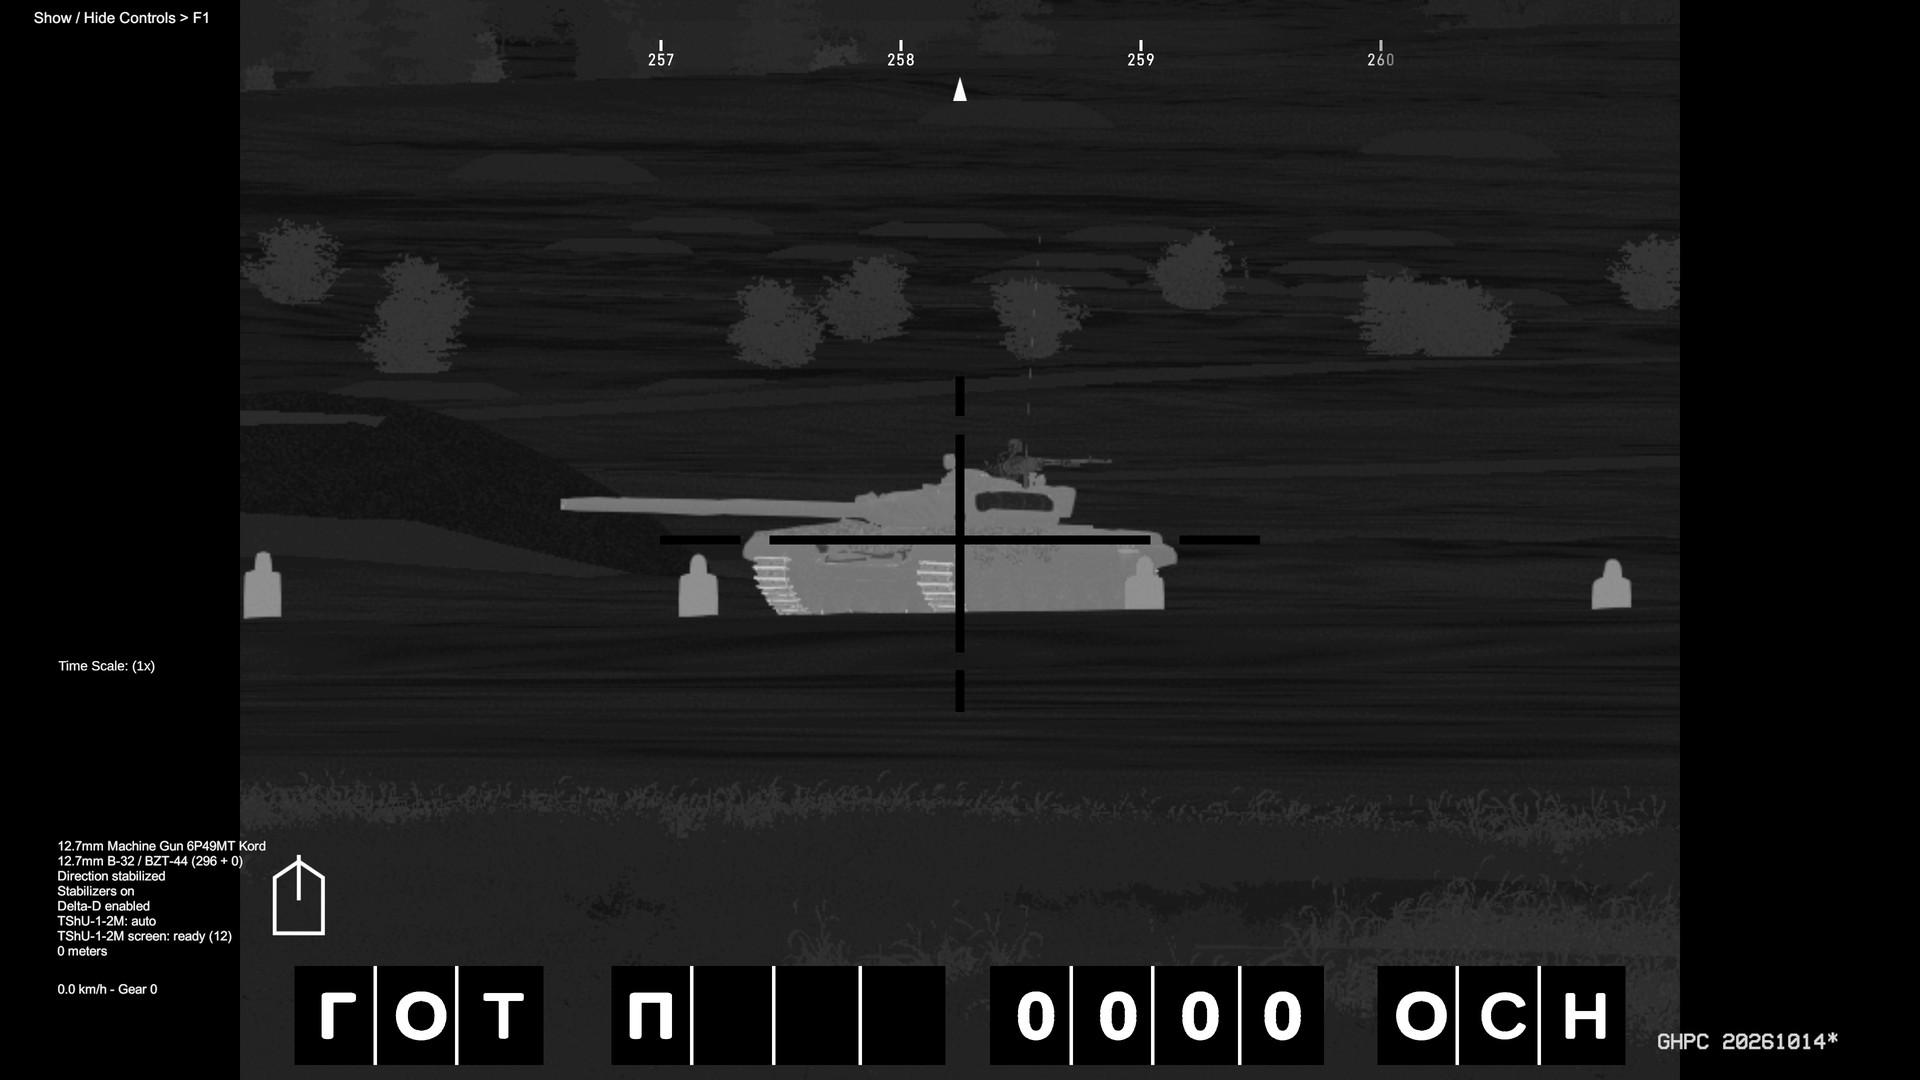
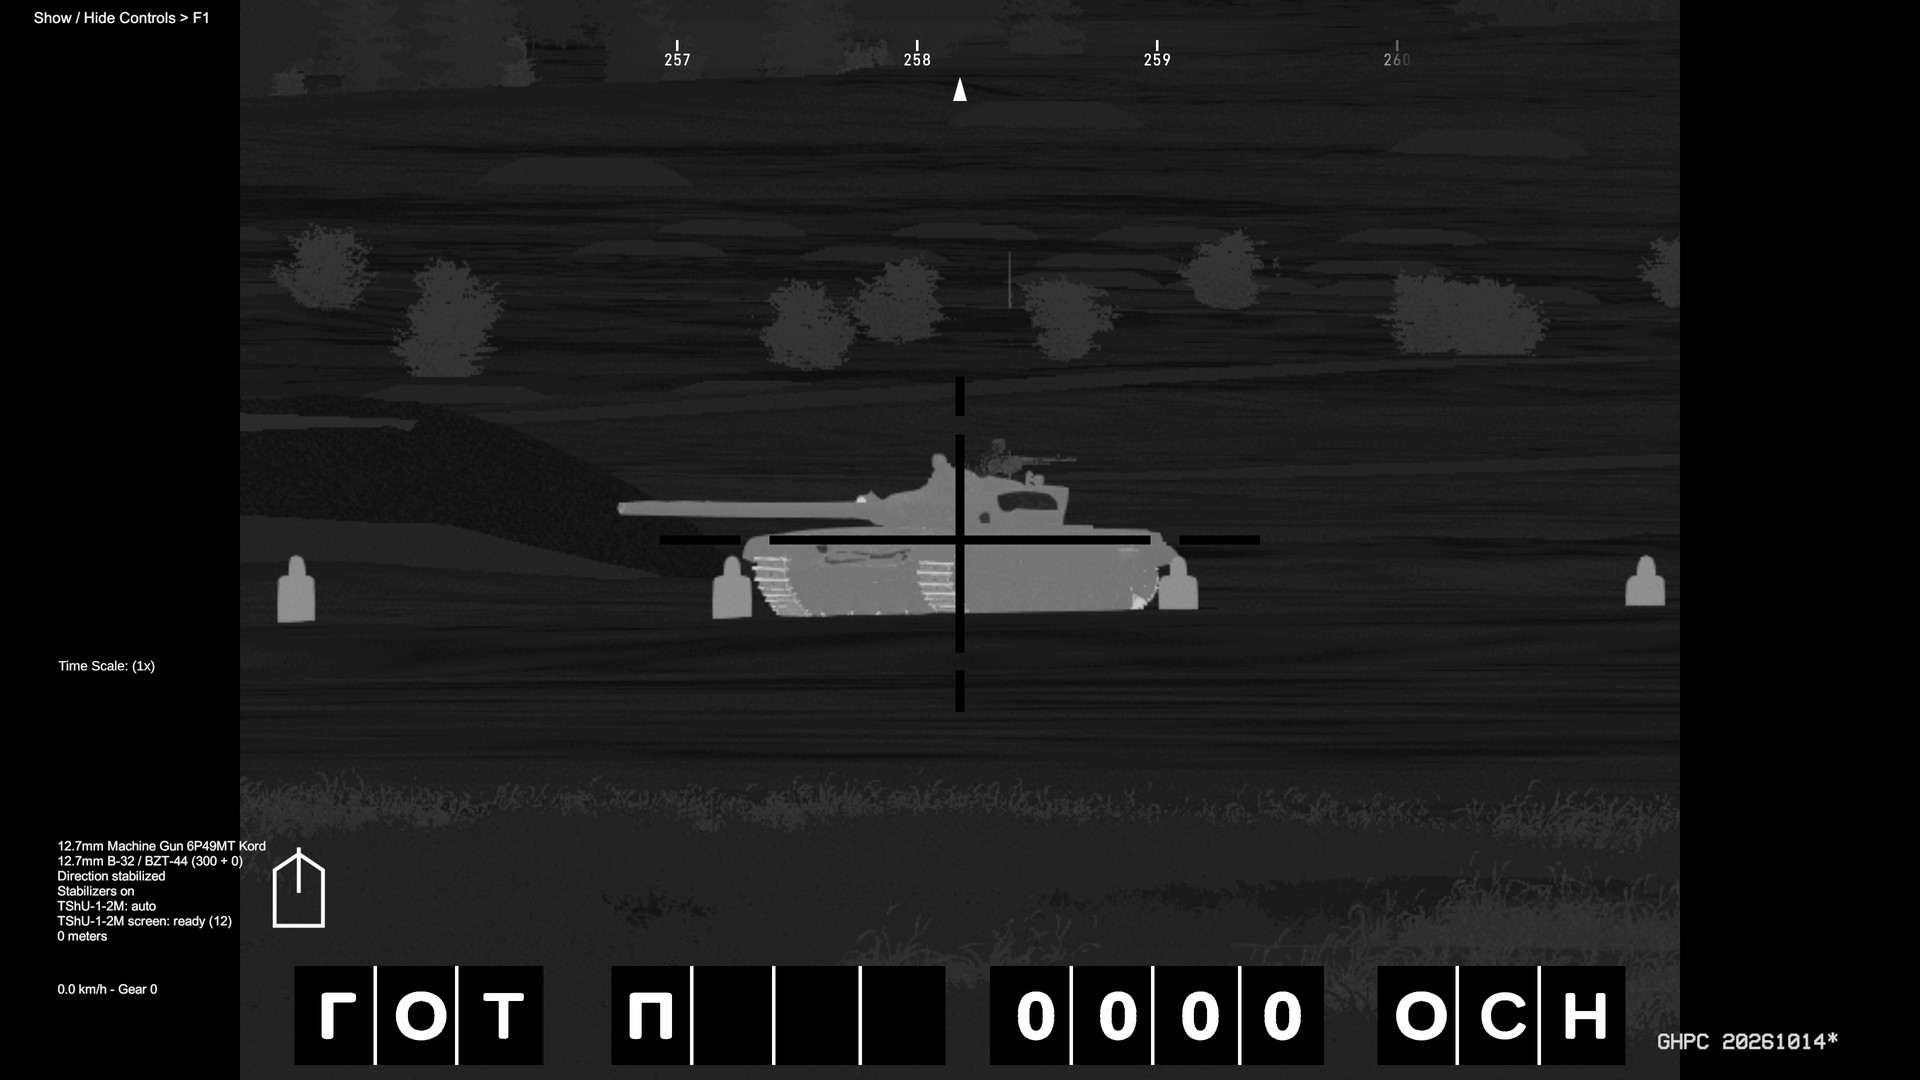
T-90M 0.1.0 release
Source as it ships in 0.1.0. Since the last push: ERA destruction effects on by default, the TShU page sits in the
monitor's black bar in the thermal sight, PDT and panorama, convoy numbers centred, lead held within the Sosna-U
head's travel, and the update check on. README and screenshots brought up to date to match.

diff --git a/T90M/Mod.cs b/T90M/Mod.cs
@@ -41,13 +41,14 @@ namespace T90M
 		internal static MelonPreferences_Entry<bool> KordCases;
 		internal static MelonPreferences_Entry<bool> EraEffects;
 
-		const string Repo = null;
+		const string Repo = "marsattackk/GHPC-T90M";
 		static readonly SettingsMigration[] Migrations = { };
 
 		static readonly string[] MenuScenes = { "MainMenu2_Scene", "MainMenu2-1_Scene", "LOADER_MENU", "LOADER_INITIAL", "t64_menu", "leo2_menu" };
 
 		public override void OnInitializeMelon()
 		{
+			BuildStamp.Log(Info.Name);
 			UnityErrors.Install(typeof(T90MMod).Namespace);
 			var cfg = MelonPreferences.CreateCategory("T-90M");
 			Enabled = cfg.CreateEntry("Enabled", true, description: "Adds the T-90M as its own unit (Instant Action, campaign roster, ATAC key \"T90M\").");
@@ -59,9 +60,9 @@ namespace T90M
 			ScreensAutomatic = cfg.CreateEntry("TShU-1-2M automatic screens", true, description: "true (default): a laser from the front fires an aerosol screen toward it by itself (automatic mode). false = semi-automatic mode: the warning only, the screen is fired by hand (vehicle menu: TShU-1-2M, or the smoke key). For T-90Ms spawned after the change.");
 			ScreensTone = cfg.CreateEntry("TShU-1-2M alarm tone", true, description: "true (default): the laser warning sounds a tone. false = the screen page only, no sound. For T-90Ms spawned after the change.");
 			ScreensPage = cfg.CreateEntry("TShU-1-2M warning page", true, description: "true (default): the laser warning shows the commander's screen page (the four sensor sectors, the direction, what the system did) at the bottom right. false = no page, the tone only. For T-90Ms spawned after the change.");
-			ScreensPageAlways = cfg.CreateEntry("TShU-1-2M page always on screen", false, description: "false (default): the screen page comes up on a laser warning and goes away a few seconds after. true = it stays on screen the whole time you're in the T-90M, showing the grenades left and the mode between warnings. Either way, looking through a sight it is drawn smaller, in the black strip under the picture. For T-90Ms spawned after the change.");
+			ScreensPageAlways = cfg.CreateEntry("TShU-1-2M page always on screen", false, description: "false (default): the screen page comes up on a laser warning and goes away a few seconds after. true = it stays on screen the whole time you're in the T-90M, showing the grenades left and the mode between warnings. Either way, in the thermal sight, the PDT and the panorama it sits larger in the black bar right of the picture (on a widescreen), and in the day sight smaller, under the picture. For T-90Ms spawned after the change.");
 			KordCases = cfg.CreateEntry("Kord spent cases", true, description: "true (default): the station's Kord MT throws its spent cases out of the chute, and they lie on the tank until it tilts or brakes hard. false = no cases (the belt still feeds). For T-90Ms spawned after the change.");
-			EraEffects = cfg.CreateEntry("ERA destruction effects", false, description: "false (default): a set-off ERA container looks as before (it still works as armour, once). true = it is gone with a blast, the plate round it sooted, nets over it cut. For T-90Ms spawned after the change.");
+			EraEffects = cfg.CreateEntry("ERA destruction effects", true, description: "true (default): a set-off ERA container is gone with a blast, the plate round it sooted, nets over it cut. false = it looks as before (it still works as armour, once). For T-90Ms spawned after the change.");
 			UpdateCheck.Config(cfg, FriendlyName, Info.Version, Repo);
 			PortSettings.Finish(cfg, Info.Version, Migrations);
 			if (!Enabled.Value) return;
@@ -174,7 +175,7 @@ namespace T90M
 			var flir = Shader.Find("Standard (FLIR)");
 			foreach (var part in root.GetComponentsInChildren<Transform>(true).Where(t => t.name.StartsWith("T90M_")).ToArray())
 				if (part.parent == null || !part.parent.name.StartsWith("T90M_")) VehiclePaint.ApplyPaint(part.gameObject, template, flir, PaintedPrefix);
-			VanillaMaterials.Apply(root, r => r.name.StartsWith("T90M_"), Roles);
+			VanillaMaterials.Apply(root, r => r.GetComponentsInParent<Transform>(true).Any(t => t.name.StartsWith("T90M_")), Roles);
 			if (HatchUndersides.Plain(root, "t90m_hatch_inner") == 0) MelonLogger.Warning($"{FriendlyName}: no hatch underside material found (old bundle?).");
 			try
 			{
@@ -292,6 +293,7 @@ namespace T90M
 			LampFace = new Vector3(-0.475f, 2.419f - 1.369f, -1.872f + 0.527f),
 			LampNormal = new Vector3(0f, 0f, -1f),
 			DigitScale = 1.18f,
+			DigitSpacing = 0.059f,
 		};
 
 		static IEnumerator LateSetup(Vehicle vehicle, bool atSpawn)

diff --git a/Common/GunnerFcs.cs b/Common/GunnerFcs.cs
@@ -2,6 +2,7 @@ using System;
 using System.Collections.Generic;
 using System.Linq;
 using System.Reflection;
+using GHPC.Camera;
 using GHPC.Equipment;
 using GHPC.Equipment.Optics;
 using GHPC.Weapons;
@@ -19,6 +20,7 @@ namespace T90M.Common
 			public Vector2 LineOfSightLimits;
 			public float LineOfSightAzimuth;
 			public bool ViewStopsAtAzimuth;
+			public float LeadLimit;
 			public int RangeStep = 100;
 			public int DisplayRangeIncrement = 50;
 			public float FireGateAngle = 0.1f;
@@ -163,6 +165,7 @@ namespace T90M.Common
 			dayOptic.LocalElevationLimits = s.LineOfSightLimits;
 			if (s.ViewStopsAtAzimuth && s.LineOfSightAzimuth > 0f) dayOptic.LocalAzimuthLimits = new Vector2(-s.LineOfSightAzimuth, s.LineOfSightAzimuth);
 			AimClamp.Register(fcs, dayOptic, s.LineOfSightAzimuth);
+			LeadClamp.Register(fcs, s.LeadLimit);
 			SetPrivate(fcs, "_fixParallaxForVectorMode", false);
 
 			Resync(fcs, dayOptic);
@@ -228,6 +231,45 @@ namespace T90M.Common
 				{
 					if (Flag == null || Fcs.Count == 0 || !Fcs.Contains(__instance)) return;
 					Flag.SetValue(__instance, __instance.CurrentRange >= MinRange);
+				}
+			}
+		}
+
+		// GHPC's lead has no limit: tracking rate x range x flight time, tens of degrees after a long lase.
+		internal static class LeadClamp
+		{
+			static readonly Dictionary<FireControlSystem, float> Limit = new Dictionary<FireControlSystem, float>();
+
+			internal static void Register(FireControlSystem fcs, float deg)
+			{
+				foreach (var dead in Limit.Keys.Where(k => k == null).ToList()) Limit.Remove(dead);
+				if (fcs != null && deg > 0f) Limit[fcs] = deg;
+			}
+
+			internal static void NoLeadWhile(FireControlSystem fcs, CameraSlot slot)
+			{
+				foreach (var dead in Off.Keys.Where(k => k == null).ToList()) Off.Remove(dead);
+				if (fcs == null || slot == null) return;
+				if (!Off.TryGetValue(fcs, out var l)) Off[fcs] = l = new List<CameraSlot>();
+				if (!l.Contains(slot)) l.Add(slot);
+			}
+
+			static readonly Dictionary<FireControlSystem, List<CameraSlot>> Off = new Dictionary<FireControlSystem, List<CameraSlot>>();
+
+			[HarmonyPatch(typeof(FireControlSystem), "GetLeadWorldOffset")]
+			static class Patch
+			{
+				static void Postfix(FireControlSystem __instance, ref Vector3 __result)
+				{
+					try
+					{
+						if (Off.Count > 0 && Off.TryGetValue(__instance, out var slots) && slots.Any(x => x != null && x.IsActive)) { __result = Vector3.zero; return; }
+						if (Limit.Count == 0 || !Limit.TryGetValue(__instance, out float deg)) return;
+						float max = Mathf.Max(__instance.CurrentRange, 1f) * Mathf.Tan(deg * Mathf.Deg2Rad);
+						if (__result.sqrMagnitude <= max * max) return;
+						__result = __result.normalized * max;
+					}
+					catch (Exception e) { PatchGuard.Failed("Lead limit", e); }
 				}
 			}
 		}

diff --git a/Common/TacticalNumbers.cs b/Common/TacticalNumbers.cs
@@ -14,6 +14,7 @@ namespace T90M.Common
 			public Vector3? BoxFaceR, BoxNormalR, BoxFaceL, BoxNormalL;
 			public float Standoff = 0.008f;
 			public float DigitScale = 1.25f;
+			public float? DigitSpacing;
 		}
 
 		internal static void Apply(Transform root, Transform turret, Settings s)
@@ -29,7 +30,7 @@ namespace T90M.Common
 				{
 					// Not sharedMesh, the number control works on the instance.
 					var mesh = mf.mesh;
-					if (done.Add(mesh)) ScaleDigits(mesh, s.DigitScale);
+					if (done.Add(mesh)) ScaleDigits(mesh, s.DigitScale, s.DigitSpacing);
 				}
 				var c = mf != null ? r.transform.TransformPoint(mf.mesh.bounds.center) : r.bounds.center;
 				r.transform.position += target - c;
@@ -48,18 +49,21 @@ namespace T90M.Common
 			}
 		}
 
-		static void ScaleDigits(Mesh mesh, float k)
+		static void ScaleDigits(Mesh mesh, float k, float? spacing)
 		{
 			var v = mesh.vertices;
 			if (v.Length == 0) return;
 			float cx = v.Average(p => p.x);
 			var groups = new[] { Enumerable.Range(0, v.Length).Where(i => v[i].x < cx).ToList(), Enumerable.Range(0, v.Length).Where(i => v[i].x >= cx).ToList() };
-			foreach (var g in groups)
-			{
-				if (g.Count == 0) continue;
-				var c = g.Aggregate(Vector3.zero, (a, i) => a + v[i]) / g.Count;
-				foreach (int i in g) v[i] = c + (v[i] - c) * k;
-			}
+			if (groups.Any(g => g.Count == 0)) return;
+			var centres = groups.Select(g => g.Aggregate(Vector3.zero, (a, i) => a + v[i]) / g.Count).ToArray();
+			float vanilla = Vector3.Distance(centres[0], centres[1]);
+			var mid = (centres[0] + centres[1]) * 0.5f;
+			var dir = (centres[1] - centres[0]).normalized;
+			float half = (spacing ?? vanilla) * 0.5f;
+			var targets = new[] { mid - dir * half, mid + dir * half };
+			for (int g = 0; g < 2; g++)
+				foreach (int i in groups[g]) v[i] = targets[g] + (v[i] - centres[g]) * k;
 			mesh.vertices = v;
 			mesh.RecalculateBounds();
 		}

diff --git a/Common/ShtoraScreen.cs b/Common/ShtoraScreen.cs
@@ -805,16 +805,31 @@ namespace T90M.Common
 
 			internal const float SightMaxHeight = 100f;
 			internal static readonly Vector2 OutsideAt = new Vector2(-40f, 110f), SightAt = new Vector2(-280f, 5f);
+
+			internal const float MonitorMargin = 10f, MonitorFoot = 70f, MonitorMinBar = 120f;
+			internal static (Vector2 at, float scale)? MonitorBar(Vector2 size)
+			{
+				if (!ThermalSight.NoScopeMask.Showing || Screen.height <= 0 || size.x <= 0f || size.y <= 0f) return null;
+				float bar = (1080f * Screen.width / Screen.height - 1440f) / 2f;
+				if (bar < MonitorMinBar) return null;
+				float s = Mathf.Min((bar - 2f * MonitorMargin) / size.x, (1080f - MonitorFoot - MonitorMargin) / size.y);
+				return (new Vector2(-(bar - size.x * s) / 2f, MonitorFoot), s);
+			}
+
+			internal static int LayoutKey(bool inSight) => !inSight ? 0 : !ThermalSight.NoScopeMask.Showing ? 1 : 2 + Screen.width * 8192 + Screen.height;
+
 			static int _layout = -1;
 			static void Fit(RectTransform panel) { _layout = -1; Place(panel, false); }
 
 			static void Place(RectTransform panel, bool inSight)
 			{
-				if (_layout == (inSight ? 1 : 0)) return;
-				_layout = inSight ? 1 : 0;
+				int key = LayoutKey(inSight);
+				if (_layout == key) return;
+				_layout = key;
 				panel.anchorMin = panel.anchorMax = panel.pivot = new Vector2(1f, 0f);
-				panel.anchoredPosition = inSight ? SightAt : OutsideAt;
-				float s = inSight ? Mathf.Min(1f, SightMaxHeight / panel.sizeDelta.y) : 1f;
+				var bar = inSight ? MonitorBar(panel.sizeDelta) : null;
+				panel.anchoredPosition = bar?.at ?? (inSight ? SightAt : OutsideAt);
+				float s = bar?.scale ?? (inSight ? Mathf.Min(1f, SightMaxHeight / panel.sizeDelta.y) : 1f);
 				panel.localScale = new Vector3(s, s, 1f);
 			}
 

diff --git a/Common/ModuleBuilder.cs b/Common/ModuleBuilder.cs
@@ -92,7 +92,7 @@ namespace T90M.Common
 						var box = go.AddComponent<BoxCollider>();
 						box.center = toBone.MultiplyPoint3x4(b.Centre);
 						box.size = b.Size;
-						if (look.material != null && m.XrayVerts == null)
+						if (look.material != null && m.XrayVerts == null && !m.NoXray)
 						{
 							var vis = GameObject.CreatePrimitive(PrimitiveType.Cube);
 							UnityEngine.Object.DestroyImmediate(vis.GetComponent<Collider>());
@@ -128,7 +128,7 @@ namespace T90M.Common
 						ua.AngleMatters = m.Armour.AngleMatters;
 						ArmourRicochet.SetValue(ua, m.Armour.Ricochet); ArmourNormalizes.SetValue(ua, m.Armour.Normalizes); ArmourShatter.SetValue(ua, m.Armour.Shatter);
 					}
-					if (look.template != null)
+					if (look.template != null && !m.NoXray)
 					{
 						var av = go.AddComponent<AarVisual>();
 						av.RenderMode = look.template.RenderMode; av.SwitchMaterials = look.template.SwitchMaterials; av.PreserveLayerUntilAar = look.template.PreserveLayerUntilAar;

diff --git a/Common/ModuleSpec.cs b/Common/ModuleSpec.cs
@@ -26,6 +26,7 @@ namespace T90M.Common
 			public int Tube;
 			public Vector3[] XrayVerts;
 			public int[] XrayTris;
+			public bool NoXray;
 			public Bounds Bounds
 			{
 				get
@@ -72,7 +73,8 @@ namespace T90M.Common
 					mod.Armour = new Armour { Ke = Num(a, "ke", 0f), Ce = Num(a, "ce", 0f), AngleMatters = Flag(a, "angle_matters"), Ricochet = Flag(a, "ricochet"), Normalizes = Flag(a, "normalizes"), Shatter = Flag(a, "shatter") };
 				if (m.TryGetValue("replaces", out var r) && r is List<object> rl) mod.Replaces.AddRange(rl.OfType<string>());
 				mod.Tube = (int)Num(m, "tube", 0f);
-				if (m.TryGetValue("xray", out var xo) && xo is MiniJson.Obj xm)
+				if (m.TryGetValue("xray", out var xo) && xo is bool drawn && !drawn) mod.NoXray = true;
+				else if (xo is MiniJson.Obj xm)
 				{
 					var v = Floats(Str(xm, "v", ""));
 					mod.XrayVerts = new Vector3[v.Length / 3];

diff --git a/Common/ShtoraPage.cs b/Common/ShtoraPage.cs
@@ -327,11 +327,13 @@ namespace T90M.Common
 
 		static void Place(bool inSight)
 		{
-			if (_layout == (inSight ? 1 : 0)) return;
-			_layout = inSight ? 1 : 0;
+			int key = ShtoraScreen.Hud.LayoutKey(inSight);
+			if (_layout == key) return;
+			_layout = key;
 			var panel = (RectTransform)_panel.transform;
-			panel.anchoredPosition = inSight ? ShtoraScreen.Hud.SightAt : ShtoraScreen.Hud.OutsideAt;
-			float k = inSight ? Mathf.Min(PageScale, ShtoraScreen.Hud.SightMaxHeight / panel.sizeDelta.y) : PageScale;
+			var bar = inSight ? ShtoraScreen.Hud.MonitorBar(panel.sizeDelta) : null;
+			panel.anchoredPosition = bar?.at ?? (inSight ? ShtoraScreen.Hud.SightAt : ShtoraScreen.Hud.OutsideAt);
+			float k = bar?.scale ?? (inSight ? Mathf.Min(PageScale, ShtoraScreen.Hud.SightMaxHeight / panel.sizeDelta.y) : PageScale);
 			panel.localScale = new Vector3(k, k, 1f);
 		}
 

diff --git a/Common/ThermalSight.cs b/Common/ThermalSight.cs
@@ -172,16 +172,20 @@ namespace T90M.Common
 		{
 			CameraSlot _slot;
 			CameraSpriteManager _sprites;
+			static readonly HashSet<CameraSlot> Slots = new HashSet<CameraSlot>();
+
+			internal static bool Showing { get { var a = CameraSlot.ActiveInstance; return a != null && Slots.Contains(a); } }
 
 			internal void Init(CameraSlot slot)
 			{
 				_slot = slot;
+				Slots.Add(slot);
 				slot.ActiveChanged += OnActive;
 			}
 
 			void OnDestroy()
 			{
-				if (_slot != null) _slot.ActiveChanged -= OnActive;
+				if (_slot != null) { _slot.ActiveChanged -= OnActive; Slots.Remove(_slot); }
 			}
 
 			float _nextLook;

diff --git a/Common/BuildInfo.cs b/Common/BuildInfo.cs
@@ -1,0 +1,13 @@
+using System.Reflection;
+using MelonLoader;
+
+namespace T90M.Common
+{
+	internal static class BuildStamp
+	{
+		internal static string Text => typeof(BuildStamp).Assembly.GetCustomAttributes(typeof(AssemblyInformationalVersionAttribute), false) is object[] a && a.Length > 0
+			? ((AssemblyInformationalVersionAttribute)a[0]).InformationalVersion : "unstamped";
+
+		internal static void Log(string name) => MelonLogger.Msg($"{name} {Text}");
+	}
+}

diff --git a/T90M/Sights.cs b/T90M/Sights.cs
@@ -25,7 +25,7 @@ namespace T90M
 			LaserMax = 10000f,
 			LineOfSightLimits = new Vector2(-10f, 30f),
 			LineOfSightAzimuth = 7.5f,
-			ViewStopsAtAzimuth = true,
+			LeadLimit = 7.5f,
 			RangeStep = 100,
 			DisplayRangeIncrement = 10,
 			FireGateAngle = 0.1f,

diff --git a/T90M/Pdt.cs b/T90M/Pdt.cs
@@ -74,6 +74,7 @@ namespace T90M
 			s.VisionType = NightVisionType.None;
 			s.LinkedNightSight = null;
 			SightMotion.Stabilised(s);
+			GunnerFcs.LeadClamp.NoLeadWhile(fcs, s);
 
 			const string file = "pdt.jsonc";
 			var spec = Reticles.Spec(file);

diff --git a/README.md b/README.md
@@ -28,6 +28,10 @@ This README describes **version 0.1.0**. No other mod needed, just MelonLoader.
    "Showcase of most playable vehicles" mission. In the campaign it's rarer than the T-90A, about half as common, and
    turns up after you've done 2 missions. You can turn that off or change it in the settings below.
 
+Once per game start the mod asks GitHub whether there's a newer release, and if there is, it puts one line in the
+MelonLoader console with a link to the releases page. Nothing in game, nothing gets downloaded or installed, and if
+you're offline it just doesn't say anything. Set `Check for updates` to false (Settings, below) to turn it off.
+
 To remove it, delete `Mods\T90M.dll` and the `Mods\T90M` folder. That's safe mid-campaign too, the game's campaign
 save doesn't keep a list of units, so nothing in it points at the T-90M.
 
@@ -108,8 +112,8 @@ hit. A box that's gone off is gone, a second hit on the same spot only meets the
 
 A Relikt box only goes off for something that's worth it. Machine-gun and autocannon rounds up to 30 mm, and fragments
 and spall, leave it whole, the same rule as on my T-90A. GHPC on its own sets ERA off on any hit, a PKT round included.
-By default a box that has gone off still looks the same, it just doesn't protect anything any more. Set
-`ERA destruction effects` to true and it's gone with a blast instead, the plate round it sooted and the nets over it cut.
+By default a box that has gone off is gone with a blast, the plate round it sooted and the nets over it cut. Set
+`ERA destruction effects` to false and it still looks the same instead, it just doesn't protect anything any more.
 
 - **Turret:** welded rolled steel at the model's own thickness, with the cheek filling set to match Russian estimates
   for the T-90M's turret front.
@@ -192,7 +196,8 @@ The T-90M has the screen half of the old Shtora and no IR jammer (the jammer lam
 
 - **Laser warning** all round: two precise heads on the turret front (45° either side) and two coarse ones on the sides.
   Get lased and a warning page comes up bottom right with a tone, showing which way it came from and what the system
-  did. The page is my take on the commander's touch screen, the real one's layout isn't published.
+  did. The page is my take on the commander's touch screen, the real one's layout isn't published. In the thermal
+  sight, the PDT and the panorama it goes bigger in the black bar to the right of the picture.
 - **Automatic 3D17 aerosol screens** from the smoke tubes towards a laser in the front sector. An AI tank whose laser is
   blocked by the screen has to judge the range by eye.
 - **From the vehicle menu** (TShU-1-2M): fire a screen where the gun points, or turn the turret to a laser that came from
@@ -250,13 +255,14 @@ before editing it):
 | `APFSDS` | `"3BM60"` / `"3BM42"` (where the game doesn't pick one itself) | 3BM60 |
 | `Armour preset` | `"game-scale"` / `"source-only"` | game-scale |
 | `Weathered paint` | true (dirt, wear and rust) / false (clean factory paint) | true |
-| `ERA destruction effects` | false (a set-off Relikt box looks as before) / true (it's gone with a blast, soot round it, the nets over it cut; for T-90Ms spawned after the change) | false |
+| `ERA destruction effects` | false (a set-off Relikt box looks as before) / true (it's gone with a blast, soot round it, the nets over it cut; for T-90Ms spawned after the change) | true |
 | `TShU-1-2M` | true (laser warning and automatic aerosol screens) / false (none of it: the game's ordinary smoke salvo) | true |
 | `TShU-1-2M automatic screens` | true (a laser from the front fires a screen by itself) / false (semi-automatic: the warning only, you fire the screen from the vehicle menu or with the smoke key) | true |
 | `TShU-1-2M alarm tone` | true (the laser warning sounds a tone) / false (the page only) | true |
 | `TShU-1-2M warning page` | true (the warning page shows bottom right) / false (the tone only) | true |
 | `TShU-1-2M page always on screen` | false (the page comes up on a warning and goes away after) / true (always on screen while you're in the T-90M) | false |
 | `Kord spent cases` | true (the Kord throws out its spent cases, they lie on the tank) / false (no cases, the belt still feeds) | true |
+| `Check for updates` | true (asks GitHub once per game start, one line in the MelonLoader console if there's a newer release) / false (no check) | true |
 
 There's also a `ConfigVersion` line at the end, the version that last wrote the section. Leave it alone, it's how the
 mod tells which settings are still on an old default.
